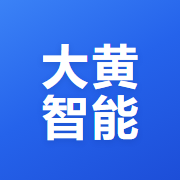
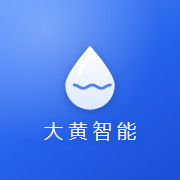
图标美化：玻璃感水滴+品牌小字，SW 缓存升 v3

diff --git a/docs/remote/sw.js b/docs/remote/sw.js
@@ -3,7 +3,7 @@
  * HTML 一律 network-first，保证 GitHub Pages 更新后不会被旧缓存锁死。
  * 巴法云 WSS / MQTT 是跨域且非同源静态资源，这里完全不拦截。
  */
-const CACHE = 'dahuang-remote-v2';
+const CACHE = 'dahuang-remote-v3';
 const SHELL = [
   './',
   './index.html',
